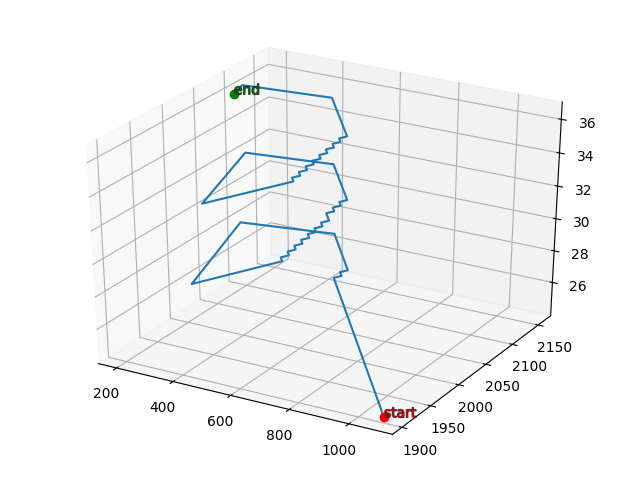
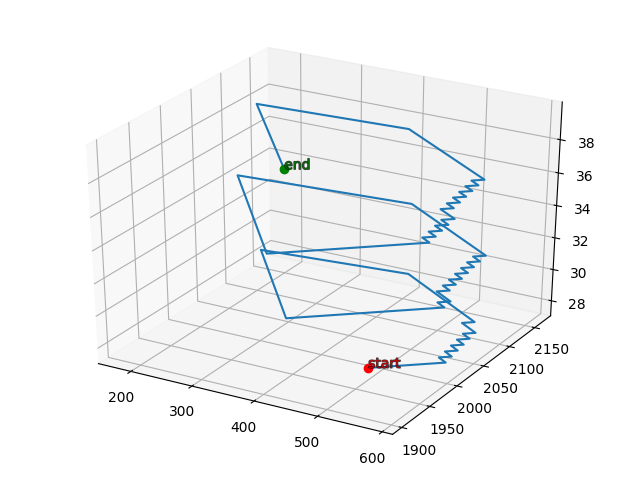
3.4: updated plot when agent start in the same point

diff --git a/project_3/task3.4/task3.4.py b/project_3/task3.4/task3.4.py
@@ -288,7 +288,7 @@ if __name__ == '__main__':
             N_CLUSTERS.n10,
             ITERATIONS.n10000,
             plot_origin=False,
-            start_index=0)
+            start_index=None)
 
     analyze(PATHS.path2, USER_STATE_FILE,
             NEURONS_FILE.n10,
